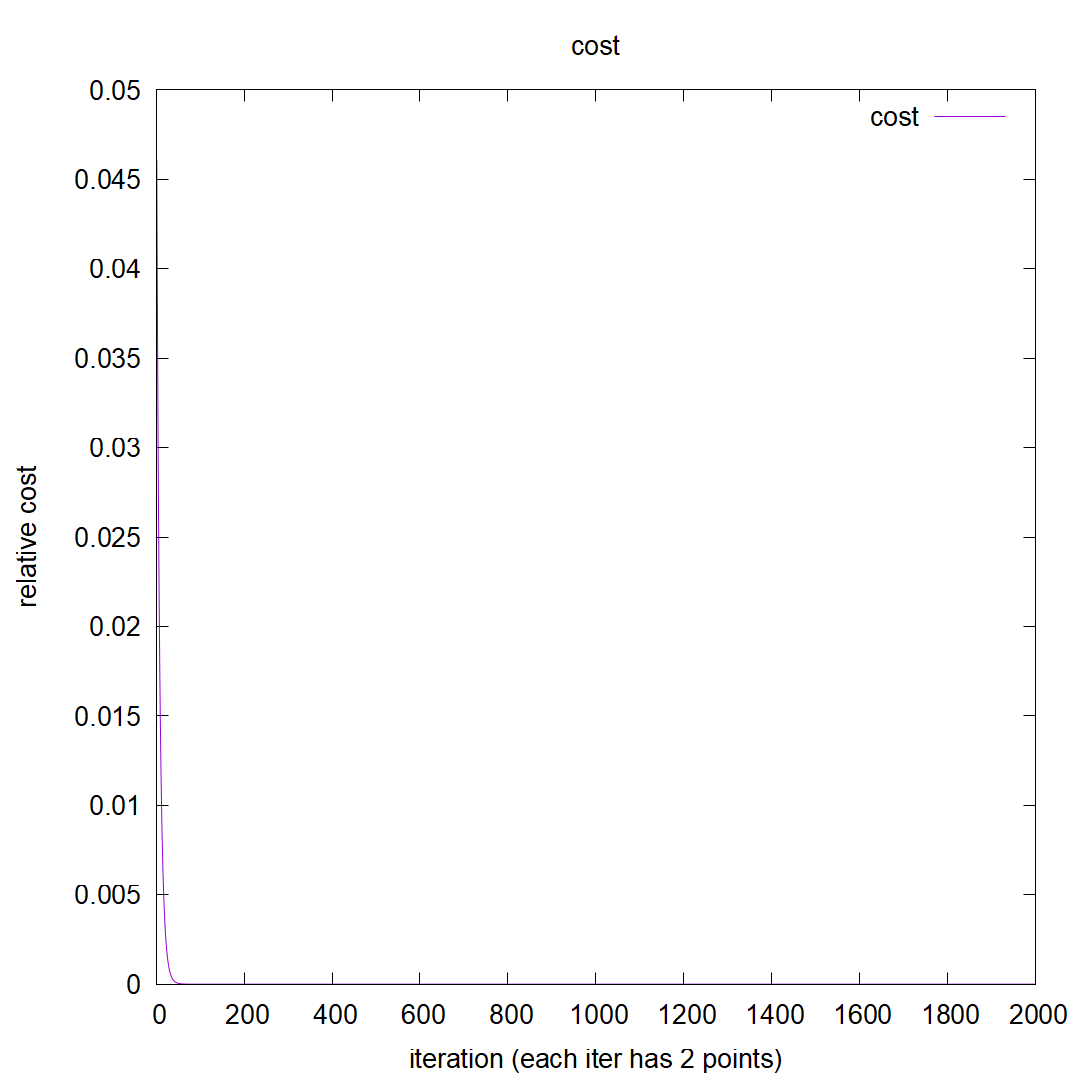
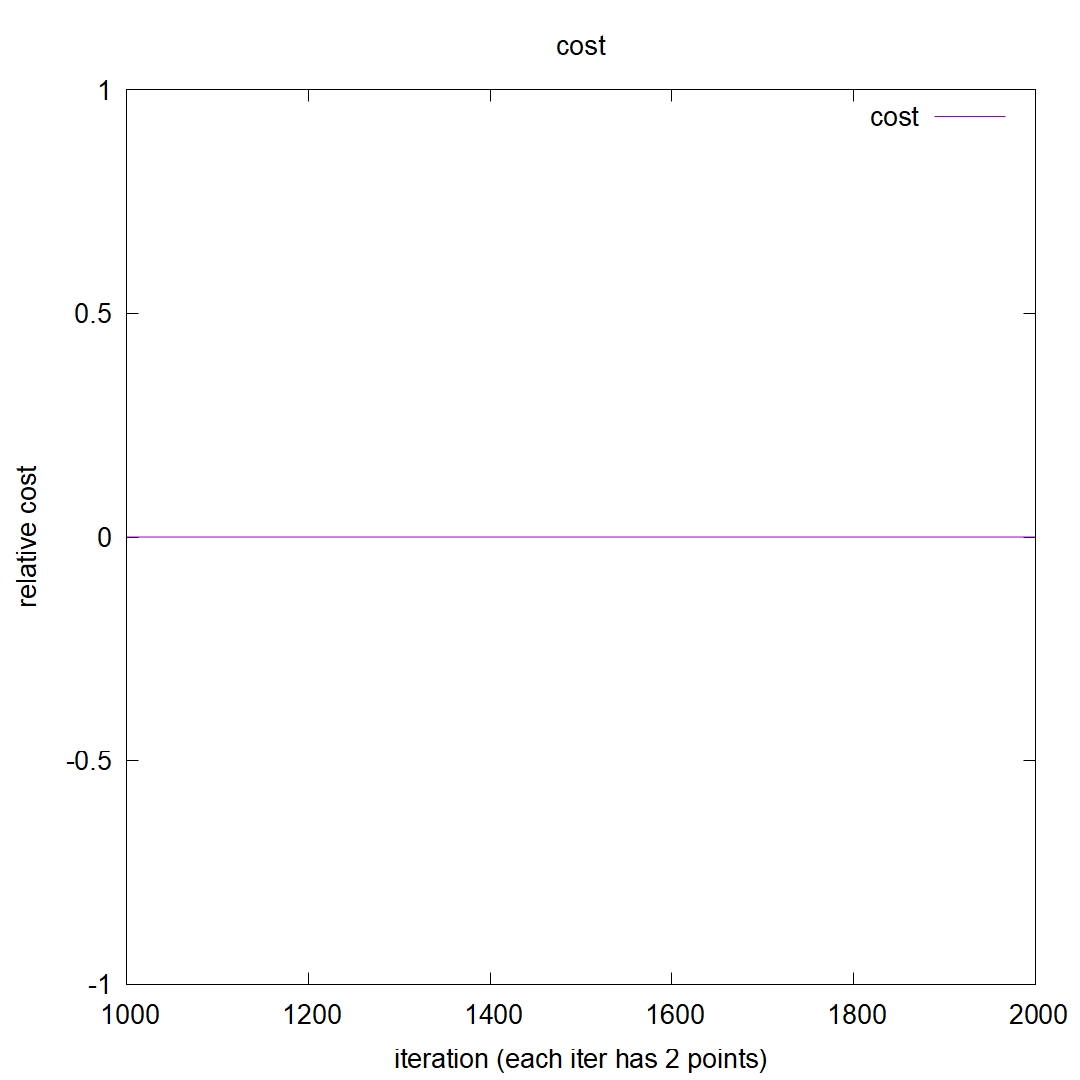
temp update

diff --git a/src/hw4/lib/config_read.c b/src/hw4/lib/config_read.c
@@ -29,6 +29,7 @@ void config_init(config_t *config){
     config->initial_y = 0.0;
     config->max_iter = 1000;
     config->show_progress = true;
+    config->debug_mode = false;
     memset(config->output_file, 0, sizeof(config->output_file)); // Clear buffer
     memset(config->iter_img, 0, sizeof(config->iter_img)); // Clear buffer
     memset(config->iter_tmp, 0, sizeof(config->iter_tmp)); // Clear buffer
@@ -64,6 +65,7 @@ void config_print(config_t *config){
     printf("initial_y: %lf\n", config->initial_y);
     printf("max_iter: %d\n", config->max_iter);
     if (config->show_progress == 1) printf("show_progress: true\n"); else if (config->show_progress == 0) printf("show_progress: false\n");
+    if (config->debug_mode == 1) printf("debug_mode: true\n"); else if (config->debug_mode == 0) printf("debug_mode: false\n");
     printf("output_file: %s\n", config->output_file);
     printf("iter_img: %s\n", config->iter_img);
     printf("iter_tmp: %s\n", config->iter_tmp);
@@ -74,10 +76,10 @@ void config_print(config_t *config){
     printf("plot_x_size: %d\n", config->plot_x_size);
     printf("plot_y_size: %d\n", config->plot_y_size);
     printf("plot_filetype: %s\n", config->plot_filetype);
-    printf("plot_x_min: %d\n", config->plot_x_min);
-    printf("plot_x_max: %d\n", config->plot_x_max);
-    printf("plot_y_min: %d\n", config->plot_y_min);
-    printf("plot_y_max: %d\n", config->plot_y_max);
+    printf("plot_x_min: %lf\n", config->plot_x_min);
+    printf("plot_x_max: %lf\n", config->plot_x_max);
+    printf("plot_y_min: %lf\n", config->plot_y_min);
+    printf("plot_y_max: %lf\n", config->plot_y_max);
     printf("param_cnt: %d\n", config->param_cnt);
     return;
 }
@@ -102,7 +104,7 @@ void config_all_print(config_t *config, config_line_t (*config_lines)[]){
 
 int config_parse(char *buf, config_t *config){
     char dummy[CONFIG_LINE_MAX_SIZE];
-    if (DISPLAY_CONFIG_PARSING_BUF  == 1) printf("buf: %s", buf);
+    if (config->debug_mode == true) printf("config_parse buf: %s", buf);
     if (sscanf(buf, " %s", dummy) == EOF) return CONFIG_READ_STATUS_SUCCESS; // Empty line
     if (sscanf(buf, " %[#]", dummy) == 1) return CONFIG_READ_STATUS_SUCCESS; // Comment line
     if (sscanf(buf, " initial_step = %s", dummy) == 1) {
@@ -150,6 +152,16 @@ int config_parse(char *buf, config_t *config){
         config->param_cnt += 1;
         return CONFIG_READ_STATUS_SUCCESS;
     }
+    if (sscanf(buf, " debug_mode = %[TtRrUuEe]", dummy) == 1) {
+        config->debug_mode = true;
+        config->param_cnt += 1;
+        return CONFIG_READ_STATUS_SUCCESS;
+    }
+    if (sscanf(buf, " debug_mode = %[FfAaLlSsEe]", dummy) == 1) {
+        config->debug_mode = false;
+        config->param_cnt += 1;
+        return CONFIG_READ_STATUS_SUCCESS;
+    }
     if (sscanf(buf, " output_file = %s", config->output_file) == 1) {
         config->param_cnt += 1;
         return CONFIG_READ_STATUS_SUCCESS;
@@ -194,17 +206,17 @@ int config_parse(char *buf, config_t *config){
         return CONFIG_READ_STATUS_SUCCESS;
     }
     if (sscanf(buf, " plot_x_min = %s", dummy) == 1) {
-        config->plot_x_min = strtol(dummy, NULL, 10);
+        config->plot_x_min = strtod(dummy, NULL);
         config->param_cnt += 1;
         return CONFIG_READ_STATUS_SUCCESS;
     }
     if (sscanf(buf, " plot_x_max = %s", dummy) == 1) {
-        config->plot_x_max = strtol(dummy, NULL, 10);
+        config->plot_x_max = strtod(dummy, NULL);
         config->param_cnt += 1;
         return CONFIG_READ_STATUS_SUCCESS;
     }
     if (sscanf(buf, " plot_y_min = %s", dummy) == 1) {
-        config->plot_y_min = strtol(dummy, NULL, 10);
+        config->plot_y_min = strtod(dummy, NULL);
         config->param_cnt += 1;
         return CONFIG_READ_STATUS_SUCCESS;
     }
@@ -216,9 +228,9 @@ int config_parse(char *buf, config_t *config){
     return CONFIG_READ_STATUS_FAILURE; // Syntax error
 }
 
-int config_line_parse(char *buf, config_line_t *config_line, int *line_cnt){
+int config_line_parse(char *buf, config_line_t *config_line, int *line_cnt, config_t *config){
     char dummy[CONFIG_LINE_MAX_SIZE];
-    if (DISPLAY_CONFIG_PARSING_BUF == 1) printf("buf: %s", buf);
+    if (config->debug_mode == true) printf("config_line_parse buf: %s", buf);
     if (sscanf(buf, " %s", dummy) == EOF) return CONFIG_READ_STATUS_SUCCESS; // Empty line
     if (sscanf(buf, " %[#]", dummy) == 1) return CONFIG_READ_STATUS_SUCCESS; // Comment line
     if (sscanf(buf, " line_title = %s", config_line->line_title) == 1){
@@ -272,7 +284,7 @@ int config_read(config_t *config, config_line_t (*config_lines)[], char *filenam
     // Read file
     while (fgets(buf, sizeof(buf), fp)) {
         ++current_line;
-        if (DISPLAY_CONFIG_LINE_PARSING_BUF == 1) printf("Line %d: %s", current_line, buf);
+        if (config->debug_mode == true) printf("Line %d: %s", current_line, buf);
         if (config->param_cnt < CONFIG_GLOBAL_SET_NUM) {
             // Read global settings
             int err = config_parse(buf, config);
@@ -284,7 +296,7 @@ int config_read(config_t *config, config_line_t (*config_lines)[], char *filenam
         } else {
             // Read line settings
             line_index = line_param_cnt / CONFIG_LINE_SET_NUM;
-            int err = config_line_parse(buf, &(*config_lines)[line_index], &line_param_cnt);
+            int err = config_line_parse(buf, &(*config_lines)[line_index], &line_param_cnt, config);
             if (err) {
                 sprintf(msg, "line %d: Buf: %s", current_line, buf);
                 config_read_status_print(err, msg);

diff --git a/src/hw4/lib/config_read.h b/src/hw4/lib/config_read.h
@@ -20,15 +20,11 @@
 #define CONFIG_LINE_MAX_SIZE    (256)   ///< Maximum size of config file line (changing number small can take more config lines, weird)
 #define CONFIG_SET_MAX_SIZE     (128)   ///< Maximum size of config file settting in memory
 #define MAX_LINE_CNT            (4)     ///< Maximum number of specified lines in config file
-#define CONFIG_GLOBAL_SET_NUM   (20)    ///< Number of global settings in config file
+#define CONFIG_GLOBAL_SET_NUM   (21)    ///< Number of global settings in config file
 #define CONFIG_LINE_SET_NUM     (5)     ///< Number of each line settings in config file
 
 #define CONFIG_READ_STATUS_SUCCESS (0)           ///< Success
 #define CONFIG_READ_STATUS_FAILURE (-1)          ///< Can't open file
-
-#define DISPLAY_CONFIG_READ_BUF (0)               ///< Display config read or not
-#define DISPLAY_CONFIG_PARSING_BUF (0)            ///< Display config parsing or not
-#define DISPLAY_CONFIG_LINE_PARSING_BUF (0)       ///< Display config line parsing or not
 
 /**
  * @brief Data structure for config file general settings
@@ -41,7 +37,7 @@ typedef struct {
     double initial_y;                           ///< initial y
     int    max_iter;                            ///< maximum number of iterations (needs to be smaller than MAX_POINT_CNT defined in iter.h)
     bool   show_progress;                       ///< show progress or not
-    bool debug_mode;                            ///< show debug info or not
+    bool   debug_mode;                          ///< show debug info or not
     char*  font[CONFIG_SET_MAX_SIZE];           ///< font
     char*  output_file[CONFIG_SET_MAX_SIZE];    ///< output file name
     char*  iter_img[CONFIG_SET_MAX_SIZE];       ///< iteration image file name (stores all points)
@@ -52,10 +48,10 @@ typedef struct {
     int    plot_x_size;                         ///< plot x size
     int    plot_y_size;                         ///< plot y size
     char*  plot_filetype[CONFIG_SET_MAX_SIZE];  ///< plot filetype
-    int    plot_x_min;                          ///< plot x min
-    int    plot_x_max;                          ///< plot x max
-    int    plot_y_min;                          ///< plot y min
-    int    plot_y_max;                          ///< plot y max
+    double plot_x_min;                          ///< plot x min
+    double plot_x_max;                          ///< plot x max
+    double plot_y_min;                          ///< plot y min
+    double plot_y_max;                          ///< plot y max
     int    param_cnt;                           ///< number of parameters in config file
 } config_t;
 
@@ -126,9 +122,10 @@ int config_parse(char *buf, config_t *config);
  * @param buf Pointer to read buffer
  * @param config_line Pointer to config_line_t struct
  * @param line_cnt Pointer to line_cnt
+ * @param config Pointer to config_t struct
  * @retval config_read_status
 */
-int config_line_parse(char *buf, config_line_t *config_line, int *line_cnt);
+int config_line_parse(char *buf, config_line_t *config_line, int *line_cnt, config_t *config);
 
 /**
  * @brief Read config file and parse directives

diff --git a/src/hw4/lib/iter.c b/src/hw4/lib/iter.c
@@ -20,6 +20,8 @@ void iter_history_init(iter_history_t* iter_history, config_t* config, config_li
         iter_history->iter[i] = 0;
     }
     iter_history->max_cost = 0;
+    iter_history->iter_min = 0;
+    iter_history->iter_min_set = false;
     iter_history->x[iter_history->cnt] = config->initial_x;
     iter_history->y[iter_history->cnt] = config->initial_y;
     iter_history->cost[iter_history->cnt] = iter_history_calculate_cost(iter_history, config, &(*config_lines));
@@ -70,15 +72,11 @@ void iter_history_iterate(iter_history_t* iter_history, config_t* config, config
         iter_history->y[iter_history->cnt] = next_y;
         iter_history->cost[iter_history->cnt] = iter_history_calculate_cost(iter_history, config, &(*config_lines));
         iter_history->iter[iter_history->cnt] = iter;
-        // printf("a1: %lf\n", a1);
-        // printf("b1: %lf\n", b1);
-        // printf("c1: %lf\n", c1);
-        // printf("a2: %lf\n", a2);
-        // printf("b2: %lf\n", b2);
-        // printf("c2: %lf\n", c2);
-        // printf("d2_point.x: %lf\n", d2_point.x);
-        // printf("d2_point.y: %lf\n", d2_point.y);
-        // printf("next_x: %lf\n", next_x);
-        // printf("next_y: %lf\n", next_y);
+        if (config->debug_mode == true){
+            printf("a1: %lf ->b1: %lf ->c1: %lf ->a2: %lf ->b2: %lf ->c2: %lf ->d2_point.x: %lf ->d2_point.y: %lf ->next_x: %lf ->next_y: %lf\n", a1, b1, c1, a2, b2, c2, d2_point.x, d2_point.y, next_x, next_y);
+        }
+        if (((next_x > config->plot_x_min) || (next_x < config->plot_x_max) || (next_y > config->plot_y_min) || (next_y < config->plot_y_max)) && (iter_history->iter_min_set == false)){
+            iter_history->iter_min = iter;
+        }
     }
 }

diff --git a/src/hw4/lib/plot_cost.c b/src/hw4/lib/plot_cost.c
@@ -33,7 +33,7 @@ FILE* cost_plot_open(config_t* config){
         printf("%sCannot open gnuplot, please check your environment.\n", format.status.error);
         exit(1);
     } else {
-        printf("%sgnuplot opened.\n", format.status.success);
+        printf("%sgnuplot opened for cost plot.\n", format.status.success);
     }
     fprintf(gnuplot, "set terminal qt persist font \"%s,%d\" size %d,%d\n", config->font, config->font_size, config->plot_x_size, config->plot_y_size);
     fprintf(gnuplot, "set title \"cost\"\n");
@@ -47,17 +47,19 @@ void cost_plot_update(FILE* gnuplot, config_t* config, iter_history_t* iter_hist
     fflush(cost_tmp);
     // Add lines and points to gnuplot
     fprintf(gnuplot, "plot \"%s\" with lines title \"cost\"\n", config->cost_tmp);
+    fprintf(gnuplot, "set xrange [%g:%g]\n", iter_history->iter_min, iter_history->cnt);
     fflush(gnuplot);
     return;
 }
 
-void cost_plot_reset(FILE* gnuplot, config_t* config){
+void cost_plot_reset(FILE* gnuplot, config_t* config, iter_history_t* iter_history){
     fprintf(gnuplot, "reset\n");
     fprintf(gnuplot, "set terminal pngcairo enhanced font \"%s,%d\" size %d,%d\n", config->font, config->font_size, config->plot_x_size, config->plot_y_size);
     fprintf(gnuplot, "set output \"%s.%s\"\n", config->cost_img, config->plot_filetype);
     fprintf(gnuplot, "set title \"cost\"\n");
     fprintf(gnuplot, "set xlabel \"iteration (each iter has %d points)\"\n", config->line_cnt);
     fprintf(gnuplot, "set ylabel \"relative cost\"\n");
+    fprintf(gnuplot, "set xrange [%g:%g]\n", iter_history->iter_min, iter_history->cnt);
     return;
 }
 

diff --git a/src/hw4/lib/plot_iter.c b/src/hw4/lib/plot_iter.c
@@ -34,14 +34,14 @@ FILE* iter_plot_open(config_t* config){
         printf("%sCannot open gnuplot, please check your environment.\n", format.status.error);
         exit(1);
     } else {
-        printf("%sgnuplot opened.\n", format.status.success);
+        printf("%sgnuplot opened for iter plot.\n", format.status.success);
     }
     fprintf(gnuplot, "set terminal qt persist font \"%s,%d\" size %d,%d\n", config->font, config->font_size, config->plot_x_size, config->plot_y_size);
     fprintf(gnuplot, "set title \"iteration points\"\n");
     fprintf(gnuplot, "set xlabel \"x axis\"\n");
     fprintf(gnuplot, "set ylabel \"y axis\"\n");
-    fprintf(gnuplot, "set xrange [%d:%d]\n", config->plot_x_min, config->plot_x_max);
-    fprintf(gnuplot, "set yrange [%d:%d]\n", config->plot_y_min, config->plot_y_max);
+    fprintf(gnuplot, "set xrange [%g:%g]\n", config->plot_x_min, config->plot_x_max);
+    fprintf(gnuplot, "set yrange [%g:%g]\n", config->plot_y_min, config->plot_y_max);
     return gnuplot;
 }
 
@@ -74,8 +74,8 @@ void iter_plot_reset(FILE* gnuplot, config_t* config){
     fprintf(gnuplot, "set title \"iteration points\"\n");
     fprintf(gnuplot, "set xlabel \"x axis\"\n");
     fprintf(gnuplot, "set ylabel \"y axis\"\n");
-    fprintf(gnuplot, "set xrange [%d:%d]\n", config->plot_x_min, config->plot_x_max);
-    fprintf(gnuplot, "set yrange [%d:%d]\n", config->plot_y_min, config->plot_y_max);
+    fprintf(gnuplot, "set xrange [%g:%g]\n", config->plot_x_min, config->plot_x_max);
+    fprintf(gnuplot, "set yrange [%g:%g]\n", config->plot_y_min, config->plot_y_max);
     return;
 }
 

diff --git a/src/hw4/lib/iter.h b/src/hw4/lib/iter.h
@@ -20,6 +20,9 @@
  * @param y Y coordinate list
  * @param cost Cost list of the coordinate (learning curve)
  * @param iter Iteration number list
+ * @param max_cost Maximum cost
+ * @param iter_min Minimum iteration number enters plot view
+ * @param iter_min_set Whether iter_min is set or not
 */
 typedef struct {
     int cnt;
@@ -28,6 +31,8 @@ typedef struct {
     double cost[MAX_POINT_CNT];
     int iter[MAX_POINT_CNT];
     double max_cost;
+    int iter_min;
+    bool iter_min_set;
 } iter_history_t;
 
 /**

diff --git a/src/hw4/lib/plot_cost.h b/src/hw4/lib/plot_cost.h
@@ -48,9 +48,10 @@ void cost_plot_update(FILE* gnuplot, config_t* config, iter_history_t* iter_hist
  * @brief Reset the cost plot to export to file
  * @param gnuplot Pipe to gnuplot
  * @param config Pointer to config_t struct
+ * @param iter_history Pointer to iter_history_t struct
  * @return void
 */
-void cost_plot_reset(FILE* gnuplot, config_t* config);
+void cost_plot_reset(FILE* gnuplot, config_t* config, iter_history_t* iter_history);
 
 /**
  * @brief Close the cost plot

diff --git a/src/hw4/main.c b/src/hw4/main.c
@@ -49,7 +49,7 @@ int main (int argc, char *argv[]) {
 
     iter_plot_reset(iter_gnuplot, &config);
     iter_plot_update(iter_gnuplot, &config, &config_lines, &iter_history, iter_file);
-    cost_plot_reset(cost_gnuplot, &config);
+    cost_plot_reset(cost_gnuplot, &config, &iter_history);
     cost_plot_update(cost_gnuplot, &config, &iter_history, cost_file);
 
     fclose(iter_file);
